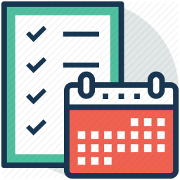
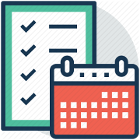
Adding navigation between SignInComponent and SignUpComponent

diff --git a/src/sign-up/sign-up.component.html b/src/sign-up/sign-up.component.html
@@ -1,4 +1,4 @@
-<ActionBar title="Criação de Conta" class="action-bar"></ActionBar>
+<ActionBar title="TaskManager - Criar Conta" class="action-bar"></ActionBar>
 
 <ScrollView>
     <StackLayout class="page">
@@ -30,5 +30,6 @@
         </StackLayout>
 
         <Button text="Criar conta" class="btn btn-primary"></Button>
+        <Button text="Login" nsRouterLink="/sign-in" pageTransition="slideRight" class="btn btn-outline"></Button>
     </StackLayout>
 </ScrollView>

diff --git a/src/sign-in/sign-in.component.html b/src/sign-in/sign-in.component.html
@@ -20,6 +20,7 @@
             </StackLayout>
 
             <Button text="Entrar" class="btn btn-primary"></Button>
+            <Button text="Criar conta" nsRouterLink="/sign-up" pageTransition="slideLeft" class="btn btn-outline"></Button>
         </StackLayout>
 
     </StackLayout>

diff --git a/src/sign-in/sign-in.component.css b/src/sign-in/sign-in.component.css
@@ -10,7 +10,7 @@
 }
 
 Image{
-    width: 180px;
-    height: 180px;
-    margin: 18px;
+    width: 140px;
+    height: 140px;
+    margin: 14px;
 }
